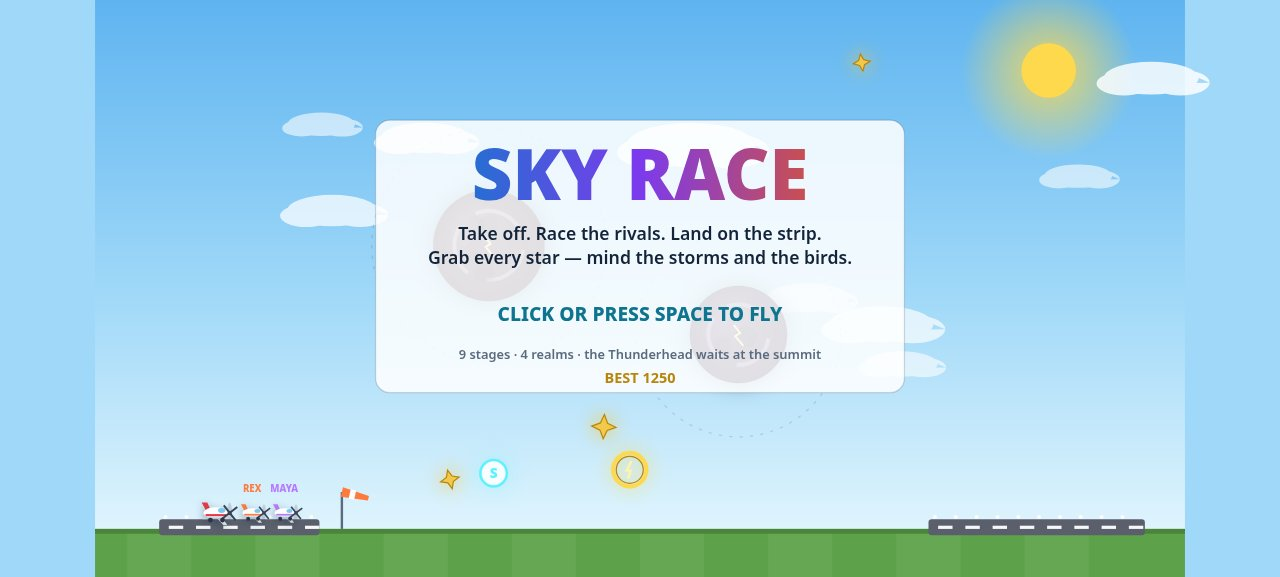
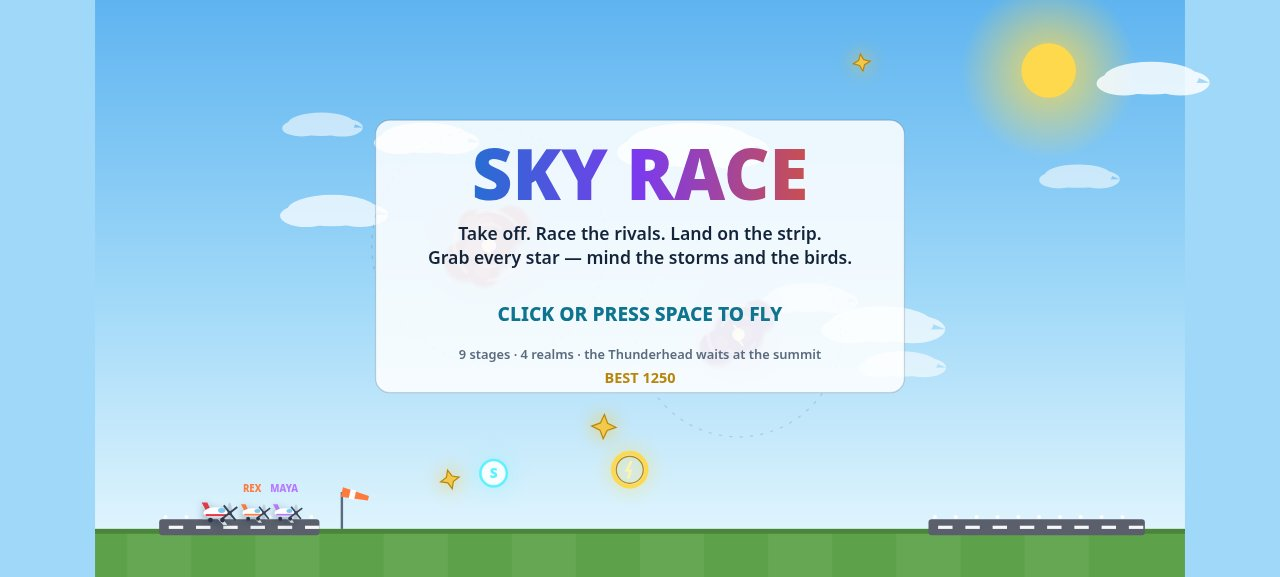
Sky Race v5: vortex visual fix — soft storm clouds, no black discs
Storm vortexes rendered as a single near-black disc (radial gradient
to #232838 + dark shadow). Redrawn as overlapping seeded puffs with
feathered edges, mid grey-blue palette, counter-rotating spiral arms,
pale eye, radius-scaled lightning; race pill near-opaque so its text
is never swallowed. Visual only: positions, radii, collision, wind
pull, level generation and physics unchanged.

diff --git a/game/src/render.js b/game/src/render.js
@@ -195,31 +195,66 @@ export function createRenderer(canvas) {
     }
   }
 
+  // Hex colour + alpha → rgba() string (for fading cloud edges).
+  function hexAlpha(hex, a) {
+    const n = parseInt(hex.slice(1), 16);
+    return `rgba(${(n >> 16) & 255}, ${(n >> 8) & 255}, ${n & 255}, ${a})`;
+  }
+
   function drawVortex(p, time) {
+    const r = p.r;
     // Wind radius, faint so the player can read the danger zone.
     ctx.strokeStyle = 'rgba(30, 58, 95, 0.16)';
     ctx.setLineDash([4, 9]);
     ctx.lineWidth = 1.5;
     ctx.beginPath();
-    ctx.arc(p.x, p.y, p.r * 2.1, 0, Math.PI * 2);
+    ctx.arc(p.x, p.y, r * 2.1, 0, Math.PI * 2);
     ctx.stroke();
     ctx.setLineDash([]);
-    // The storm cloud itself: a dark, swirling mass.
-    ctx.save();
-    ctx.shadowColor = 'rgba(35, 40, 56, 0.5)';
-    ctx.shadowBlur = 22;
-    const g = ctx.createRadialGradient(
-      p.x - p.r * 0.3, p.y - p.r * 0.35, p.r * 0.1,
-      p.x, p.y, p.r,
-    );
-    g.addColorStop(0, p.style.base);
-    g.addColorStop(1, p.style.dark);
-    ctx.fillStyle = g;
+    // Feathered halo: a soft glow that fades into the sky, so the cloud
+    // never has a hard dark edge.
+    const halo = ctx.createRadialGradient(p.x, p.y, r * 0.4, p.x, p.y, r * 1.25);
+    halo.addColorStop(0, hexAlpha(p.style.glow, 0.30));
+    halo.addColorStop(1, hexAlpha(p.style.glow, 0));
+    ctx.fillStyle = halo;
     ctx.beginPath();
-    ctx.arc(p.x, p.y, p.r, 0, Math.PI * 2);
+    ctx.arc(p.x, p.y, r * 1.25, 0, Math.PI * 2);
     ctx.fill();
-    ctx.restore();
-    // Swirl arms, slowly rotating.
+    // Storm cloud body: overlapping seeded puffs, never one solid disc.
+    // Puff centres reuse the vortex's own seeded swirl knots plus a core
+    // puff and two fixed filler puffs, so the shape is fixed per vortex
+    // and identical every run. Each puff fades to transparent at its edge,
+    // so the puffs melt into one soft cloud instead of a hard circle.
+    const puffs = [{ dx: 0, dy: 0, rr: 0.55 }];
+    for (const c of p.swirls) {
+      puffs.push({ dx: c.dx, dy: c.dy, rr: (c.r / r) * 1.7 });
+    }
+    puffs.push({ dx: -0.42 * r, dy: 0.30 * r, rr: 0.42 });
+    puffs.push({ dx: 0.40 * r, dy: -0.34 * r, rr: 0.40 });
+    for (const q of puffs) {
+      const px = p.x + q.dx;
+      const py = p.y + q.dy;
+      const pr = q.rr * r;
+      const g = ctx.createRadialGradient(
+        px - pr * 0.25, py - pr * 0.3, pr * 0.1,
+        px, py, pr,
+      );
+      g.addColorStop(0, p.style.base);
+      g.addColorStop(0.7, p.style.base);
+      g.addColorStop(1, hexAlpha(p.style.base, 0));
+      ctx.fillStyle = g;
+      ctx.beginPath();
+      ctx.arc(px, py, pr, 0, Math.PI * 2);
+      ctx.fill();
+    }
+    // Soft knot shading: pale highlights on the seeded knots, never black.
+    ctx.fillStyle = 'rgba(255, 255, 255, 0.14)';
+    for (const c of p.swirls) {
+      ctx.beginPath();
+      ctx.arc(p.x + c.dx - c.r * 0.2, p.y + c.dy - c.r * 0.25, c.r * 0.8, 0, Math.PI * 2);
+      ctx.fill();
+    }
+    // Swirl arms, slowly rotating — two counter-rotating rings.
     ctx.save();
     ctx.translate(p.x, p.y);
     ctx.rotate(time * 0.25);
@@ -229,26 +264,34 @@ export function createRenderer(canvas) {
     for (let i = 0; i < 3; i += 1) {
       const a0 = (i / 3) * Math.PI * 2;
       ctx.beginPath();
-      ctx.arc(0, 0, p.r * 0.62, a0, a0 + 1.5);
+      ctx.arc(0, 0, r * 0.62, a0, a0 + 1.5);
+      ctx.stroke();
+    }
+    ctx.rotate(-time * 0.6);
+    ctx.globalAlpha = 0.45;
+    ctx.lineWidth = 4;
+    for (let i = 0; i < 2; i += 1) {
+      const a0 = (i / 2) * Math.PI * 2 + 0.6;
+      ctx.beginPath();
+      ctx.arc(0, 0, r * 0.38, a0, a0 + 1.8);
       ctx.stroke();
     }
     ctx.globalAlpha = 1;
     ctx.restore();
-    // Swirl knots.
-    ctx.fillStyle = 'rgba(0, 0, 0, 0.22)';
-    for (const c of p.swirls) {
-      ctx.beginPath();
-      ctx.arc(p.x + c.dx, p.y + c.dy, c.r, 0, Math.PI * 2);
-      ctx.fill();
-    }
-    // Lightning zigzag in the cloud's heart.
+    // Vortex eye: a small calm pale centre.
+    ctx.fillStyle = 'rgba(232, 238, 246, 0.9)';
+    ctx.beginPath();
+    ctx.arc(p.x, p.y, r * 0.13, 0, Math.PI * 2);
+    ctx.fill();
+    // Lightning zigzag in the cloud's heart, scaled to the cloud's radius.
+    const s = r / 60;
     ctx.strokeStyle = 'rgba(255, 240, 140, 0.9)';
     ctx.lineWidth = 2.5;
     ctx.beginPath();
-    ctx.moveTo(p.x - 6, p.y - 12);
-    ctx.lineTo(p.x + 2, p.y - 2);
-    ctx.lineTo(p.x - 4, p.y + 2);
-    ctx.lineTo(p.x + 6, p.y + 14);
+    ctx.moveTo(p.x - 6 * s, p.y - 12 * s);
+    ctx.lineTo(p.x + 2 * s, p.y - 2 * s);
+    ctx.lineTo(p.x - 4 * s, p.y + 2 * s);
+    ctx.lineTo(p.x + 6 * s, p.y + 14 * s);
     ctx.stroke();
   }
 
@@ -897,7 +940,7 @@ export function createRenderer(canvas) {
       const labels = order.map((e, i) => `${i + 1}. ${e.name}`);
       const text2 = `RACE  ${labels.join('   ')}`;
       const w = ctx.measureText(text2).width;
-      ctx.fillStyle = 'rgba(255, 255, 255, 0.75)';
+      ctx.fillStyle = 'rgba(255, 255, 255, 0.94)';
       roundRect(ctx, FIELD.width / 2 - w / 2 - 12, 96, w + 24, 26, 13);
       ctx.fill();
       let cx = FIELD.width / 2 - w / 2;

diff --git a/game/src/config.js b/game/src/config.js
@@ -258,12 +258,14 @@ export const PALETTE = {
   turbulence: 'rgba(255, 255, 255, 0.5)',
 };
 
-/** Storm vortex looks: base, dark core, rim shade. */
+/** Storm vortex looks: base, dark core, rim shade. Mid grey-blue
+ * storm-cloud tones only — no near-black stop anywhere, so a vortex
+ * reads as a soft cloud, never as a solid black disc. */
 export const VORTEX_STYLES = [
-  { base: '#4a5468', dark: '#232838', glow: '#7d8aa5', rim: '#aab6cc' },
-  { base: '#54466e', dark: '#2b2140', glow: '#8a76b8', rim: '#b39ddb' },
-  { base: '#3d5a6e', dark: '#1d3242', glow: '#6d93ad', rim: '#9dbfd4' },
-  { base: '#5e4a5e', dark: '#332433', glow: '#967a96', rim: '#c2a6c2' },
+  { base: '#7d8cab', dark: '#67779a', glow: '#a7b6cf', rim: '#ccd5e4' },
+  { base: '#8a7aae', dark: '#6f5d97', glow: '#b3a4d2', rim: '#d2c6ea' },
+  { base: '#6f93a8', dark: '#57738a', glow: '#9cc0d2', rim: '#c0d9e6' },
+  { base: '#9a7f99', dark: '#7d627c', glow: '#c0a9be', rim: '#dccadb' },
 ];
 
 export const FONT = 'system-ui, -apple-system, "Segoe UI", sans-serif';
